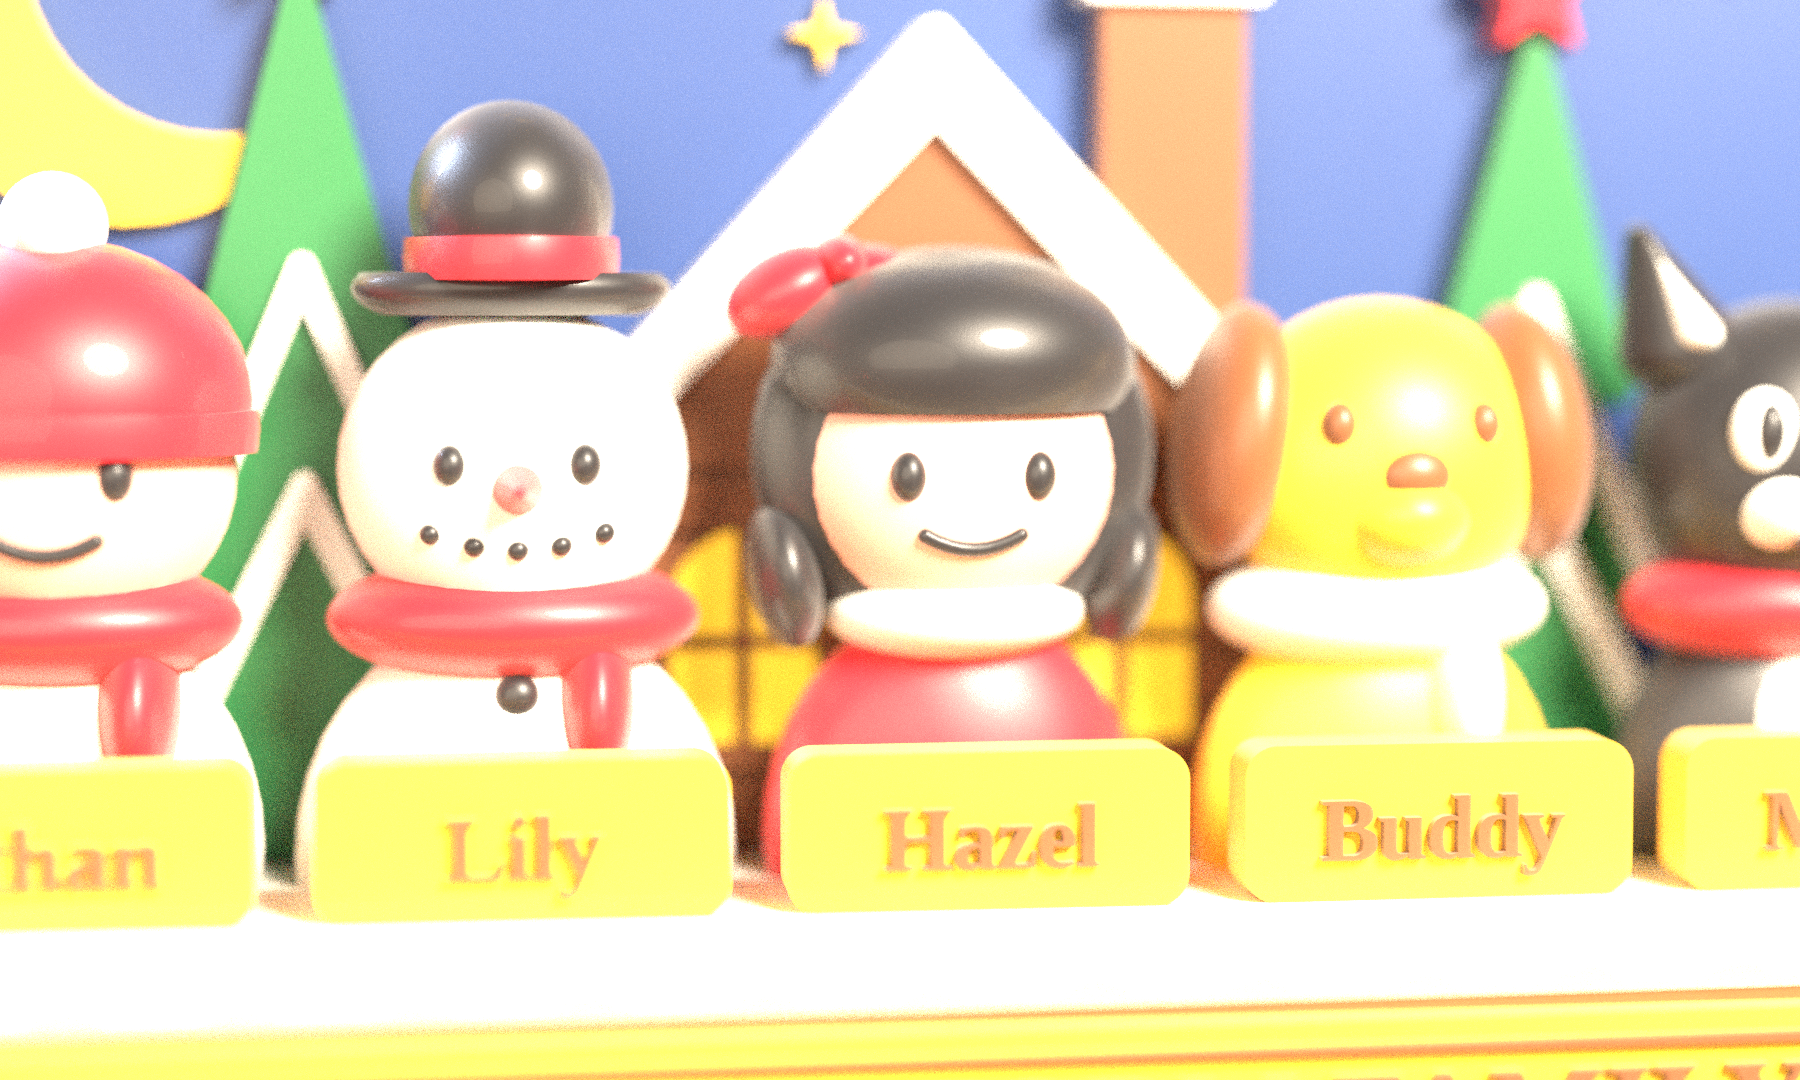
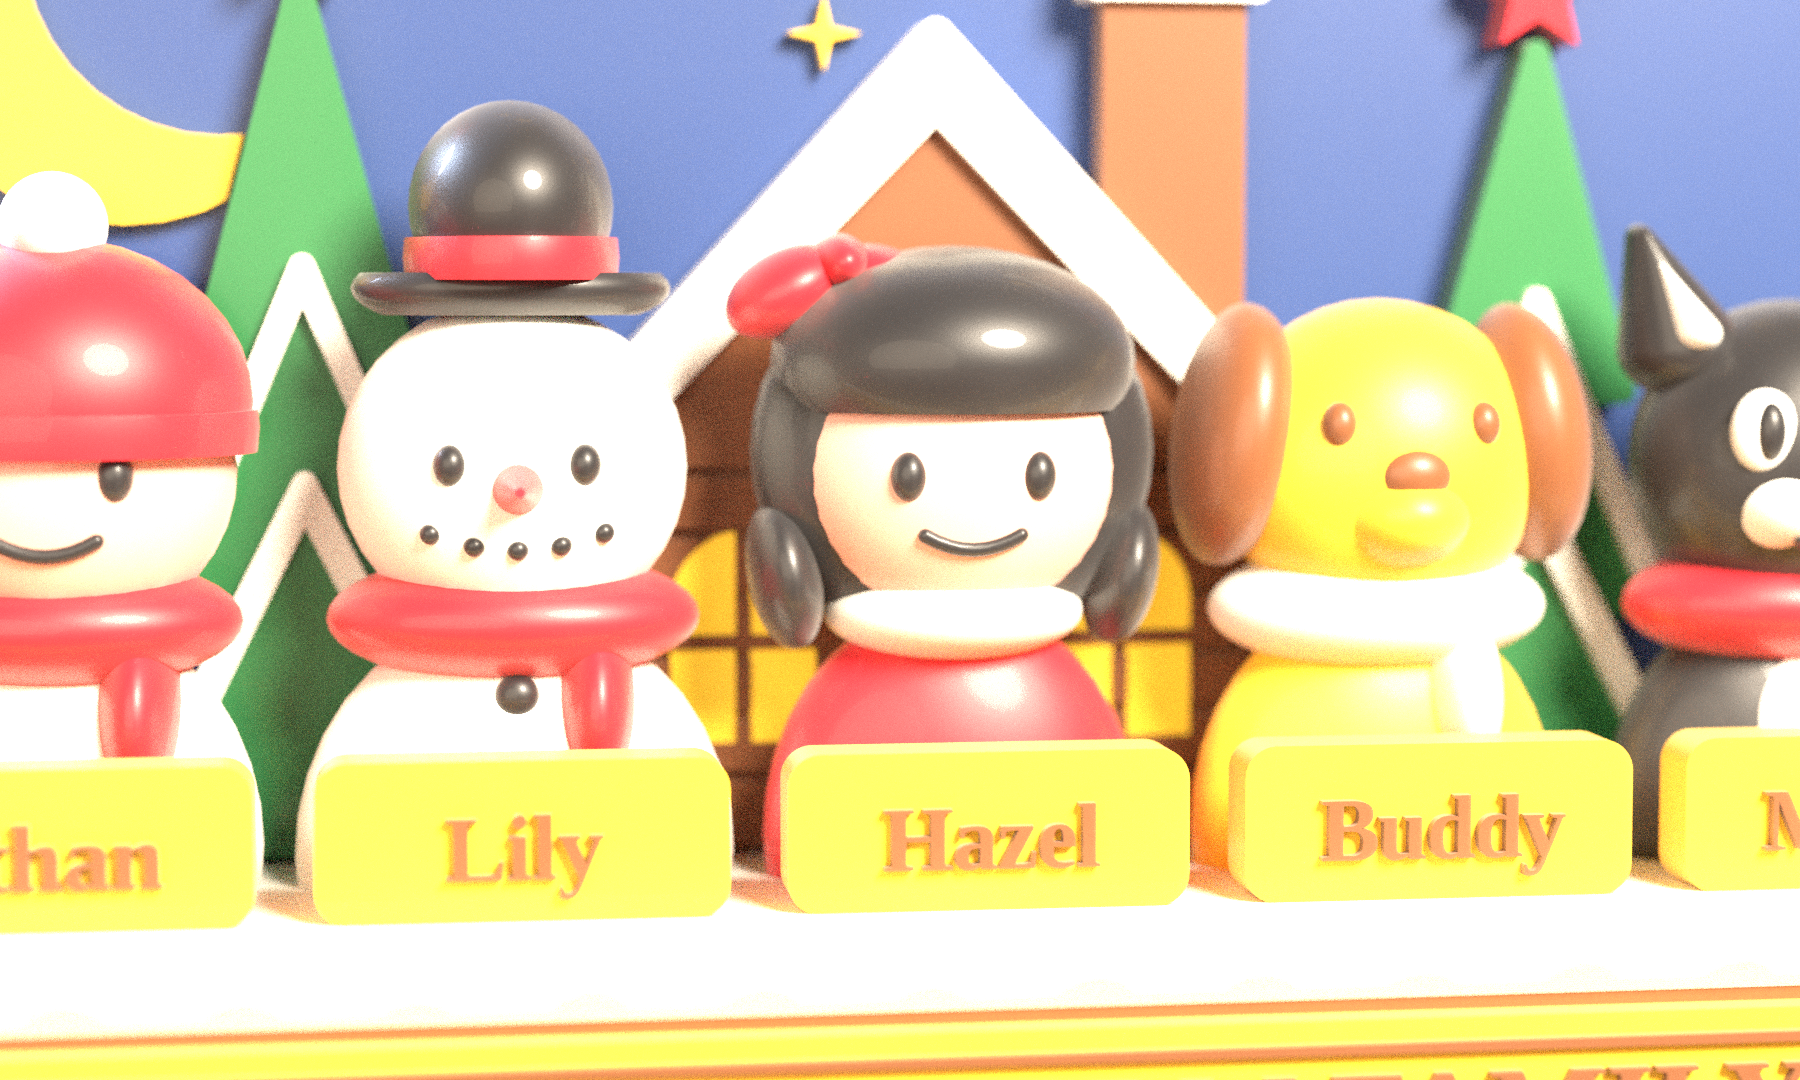
Sharper close-up render; exploded-view lighting/camera recalibrated
Claude-Session: https://claude.ai/code/session_01WrQyhy3nFv4gMPWzG5xy9K

diff --git a/christmas-family/tools/render_family.py b/christmas-family/tools/render_family.py
@@ -104,13 +104,13 @@ def main():
                                camera={"location": [95, -560, 215], "target": [0, 0, 56], "lens": 62, "fstop": 6.0}), a.quality)
     jobs["hero_close"] = common(dict(base, output=os.path.join(a.out, "hero_close.png"), balls=balls[:2], exposure=-1.0,
                                      camera={"location": [-40, -250, 70], "target": [-5, -5, 52], "lens": 70, "fstop": 7.0, "focus": [-5, -9, 48]}), a.quality)
-    ex = dict(base, output=os.path.join(a.out, "exploded.png"), balls=[], scene="studio", props=False, floor_color="#D9D0C3",
-              world_color="#EFE7DA", world_strength=0.9, exposure=-0.2,
-              lights={"key": [220, -420, 380], "key_target": [0, 0, 55], "key_power": 22,
-                      "rim": [-380, 240, 300], "rim_target": [0, 0, 60], "rim_power": 14,
-                      "fill": [-260, -420, 120], "fill_target": [0, 0, 45], "fill_power": 5})
+    ex = dict(base, output=os.path.join(a.out, "exploded.png"), balls=[], scene="studio", props=False, floor_color="#B9B1A5",
+              world_color="#EFE7DA", world_strength=0.45, exposure=-0.3,
+              lights={"key": [220, -420, 380], "key_target": [0, 0, 80], "key_power": 7,
+                      "rim": [-380, 240, 300], "rim_target": [0, 0, 80], "rim_power": 4,
+                      "fill": [-260, -420, 120], "fill_target": [0, 0, 60], "fill_power": 1.5})
     ex["items"] = [{"dir": a.assembled, "pos": [0, 0, 0], "rot": 0, "colors": cols, "offsets": explode_offsets(stems)}]
-    ex["camera"] = {"location": [190, -560, 235], "target": [0, 4, 66], "lens": 58, "fstop": 9.0}
+    ex["camera"] = {"location": [170, -640, 230], "target": [0, 6, 86], "lens": 64, "fstop": 9.0}
     jobs["exploded"] = common(ex, a.quality)
 
     plan = json.load(open(os.path.join(a.beds, "plan.json")))
